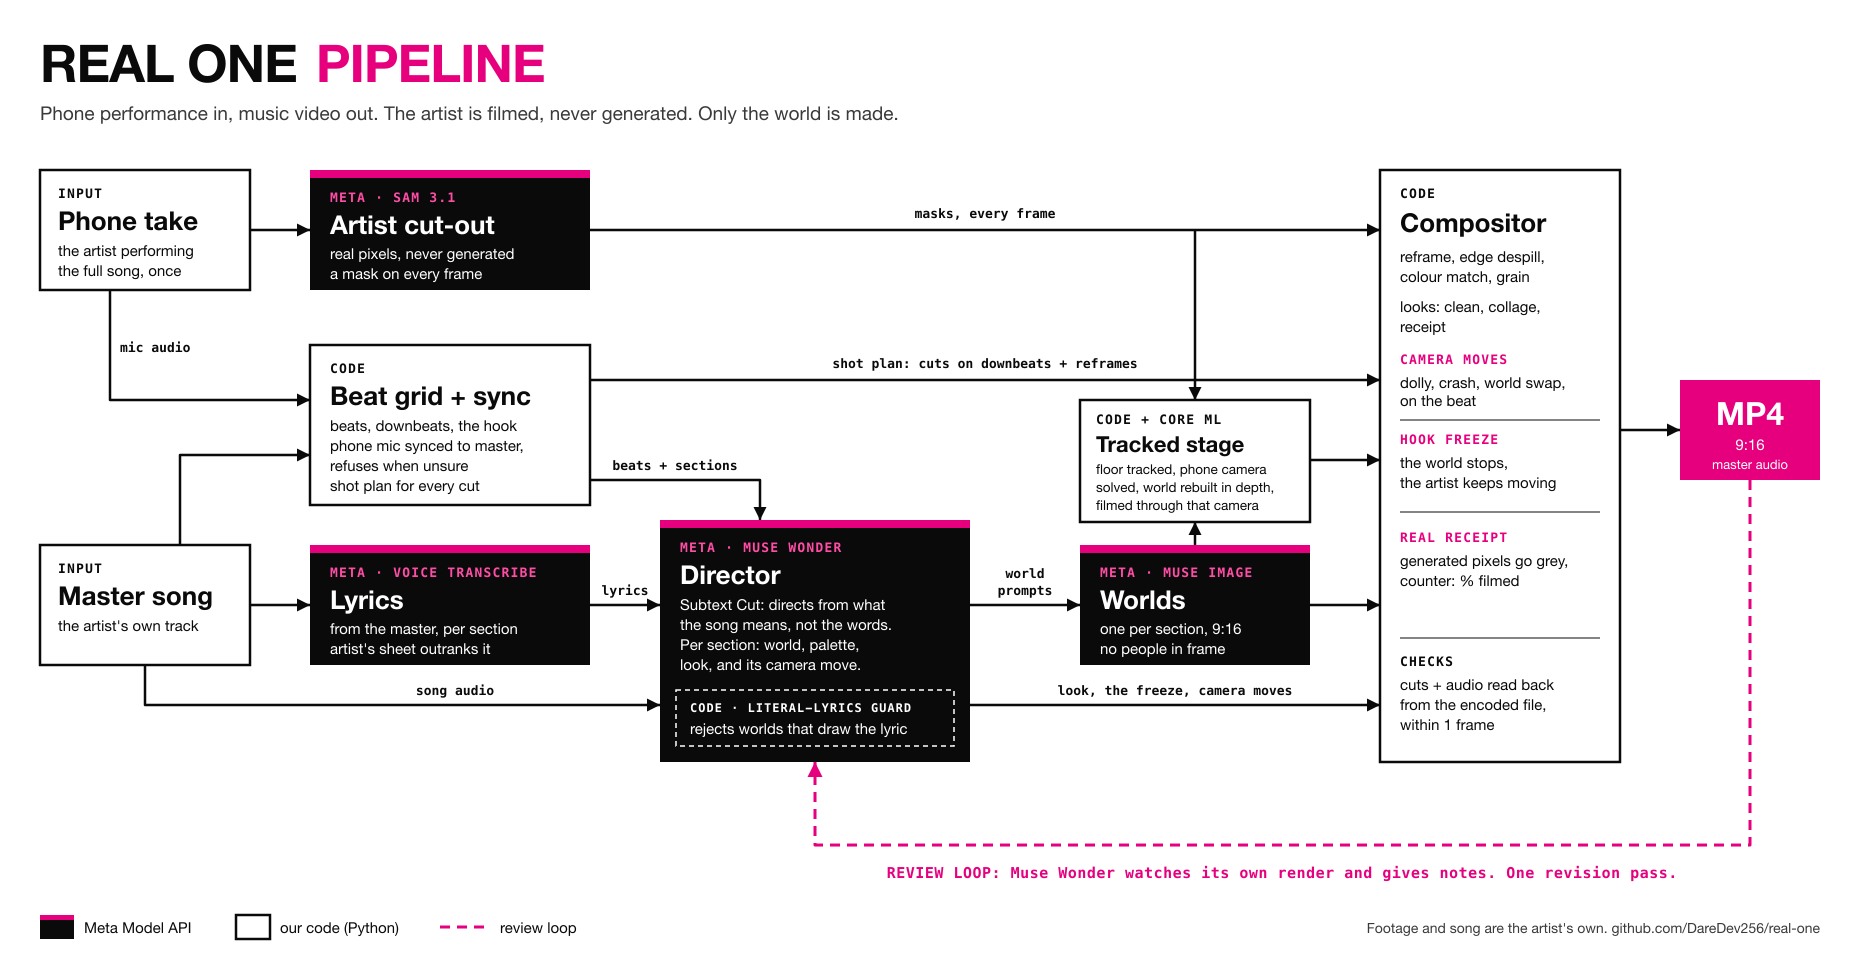
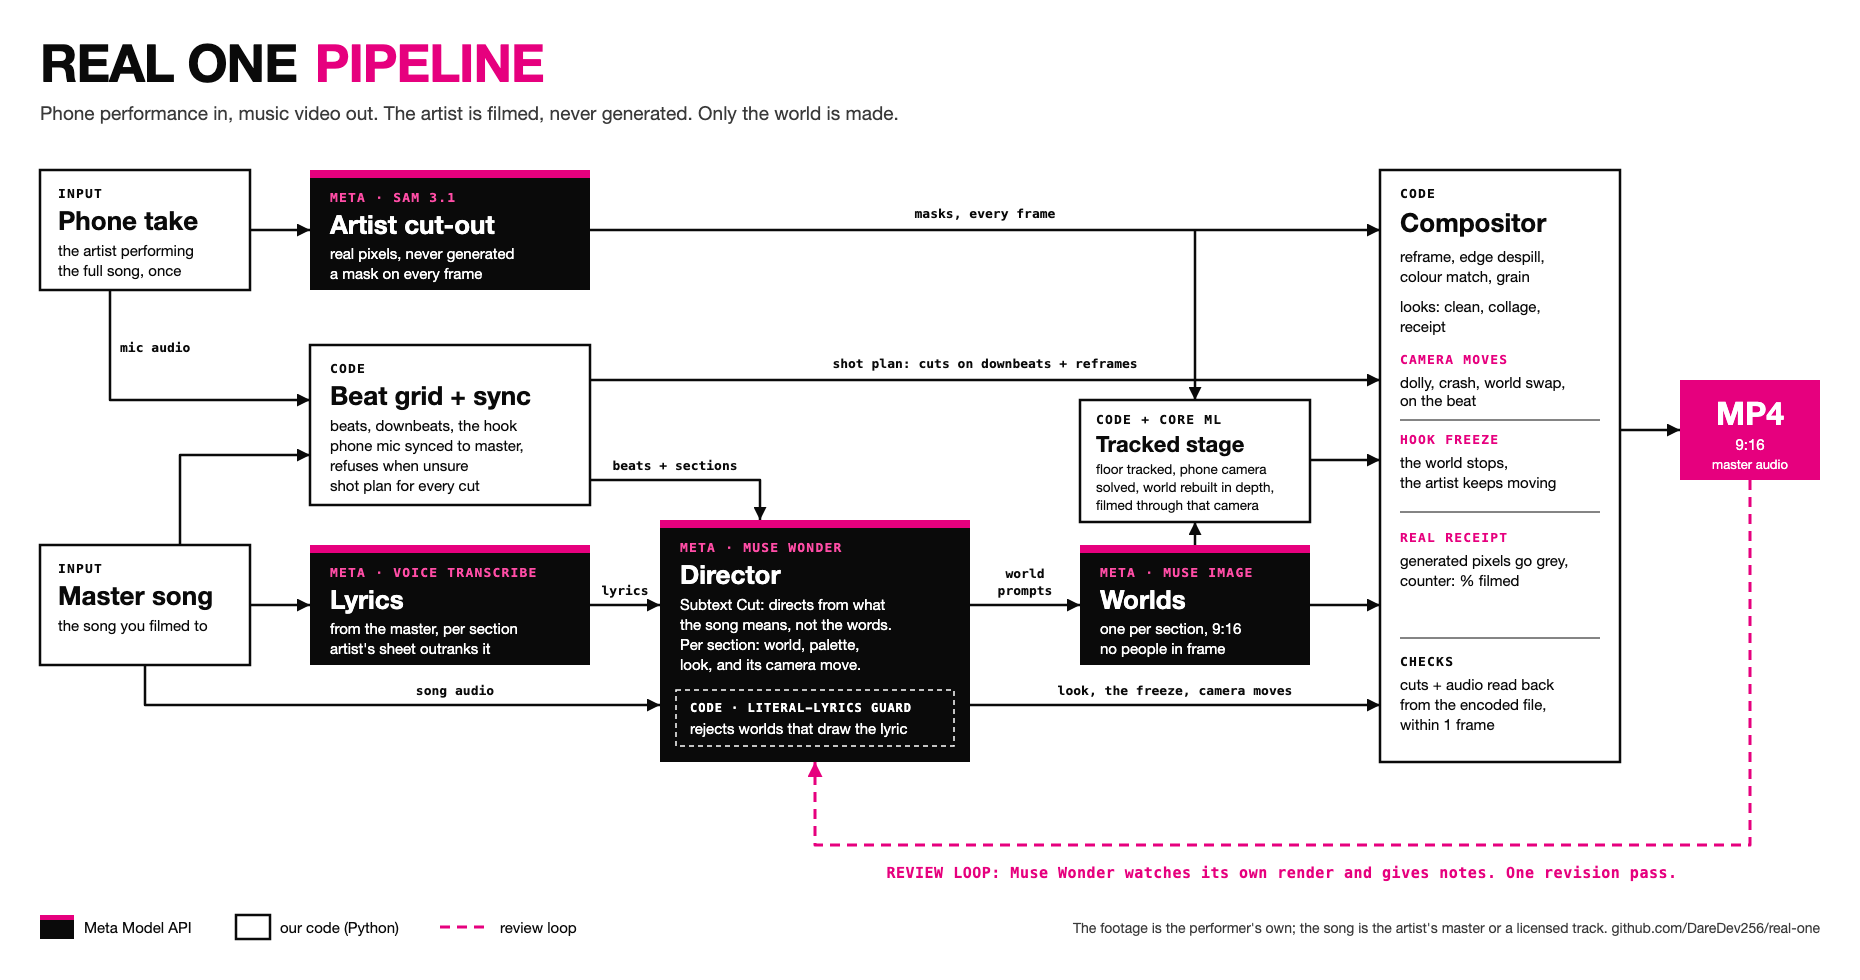
Watch page: a real render must say whose song it is
James has no release of his own; the demo will be him performing a CC BY
track. The page no longer assumes the song is the artist's own: a real
render refuses until --own-song or --song-credit 'TEXT' is given (and
refuses both); a licensed track puts its credit in the footer and the
credits statement. The pipeline diagram's own-song footer is corrected.

VERIFY PASS: secrets clean, page + readme tests green, 4 mutations red.

Claude-Session: https://claude.ai/code/session_01MajkfxCMkSNEc5EVSCGjQe

diff --git a/scripts/build_watch_page.py b/scripts/build_watch_page.py
@@ -50,6 +50,7 @@ PAGE_FILES = ("index.html", "watch.css", "watch.js", "vercel.json")
 BANNER_MARK = "<!-- TEST_BANNER -->"
 FOOT_MARK = "<!-- FOOT_SOURCE -->"
 FOOT_REAL = "FOOTAGE AND SONG ARE THE ARTIST'S OWN."
+FOOT_LICENSED = "THE FOOTAGE IS THE PERFORMER'S OWN. SONG: {credit}"
 FOOT_TEST = "TEST RENDER: THE FOOTAGE AND SONG HERE ARE STAND-INS."
 DIST_MARK = ".realone-watch"
 FINISHED_LOOKS = ("collage", "clean")
@@ -226,7 +227,21 @@ def _esc(s):
     return (str(s).replace("&", "&amp;").replace("<", "&lt;").replace(">", "&gt;").replace('"', "&quot;"))
 
 
-def build_credits(reasons, run, credits_file=None, repo=REPO, ran=None):
+def song_claim(reasons, own_song=False, song_credit=None):
+    """What the page may say about the song. A test render says stand-in. A real render must say which: the
+    artist's own master (--own-song) or a licensed track named with its credit line (--song-credit). The page
+    never assumes the song is the artist's own: the Nov 2 demo is a performance of a CC BY track."""
+    if reasons:
+        return None
+    if own_song and song_credit:
+        raise Refuse("--own-song and --song-credit contradict each other; pick one")
+    if not own_song and not song_credit:
+        raise Refuse("a real render must say whose song it is: --own-song (the artist's own master) or "
+                     "--song-credit 'TEXT' (a licensed track, with the credit its licence asks for)")
+    return {"own": True} if own_song else {"own": False, "credit": " ".join(str(song_credit).split())}
+
+
+def build_credits(reasons, run, credits_file=None, repo=REPO, ran=None, song=None):
     """credits.json for the page, generated from evidence (`ran`, from models_that_ran) unless a hand-written file
     is given. TEST when there are reasons, REAL otherwise. The total is what the Meta models' output on this page
     cost, summed from the same evidence (a cached render bills US$0.00 itself)."""
@@ -242,7 +257,9 @@ def build_credits(reasons, run, credits_file=None, repo=REPO, ran=None):
             stand_in = {k: "not used on this render" for k in stand_in}
         made = [m["name"] for m in META_MODELS if m["id"] in ran and ran[m["id"]].get("output", True)]
         silent = [m["name"] for m in META_MODELS if m["id"] in ran and not ran[m["id"]].get("output", True)]
-        rest = ("the footage and song are the artist's own." if not reasons
+        rest = ("the footage and song are the artist's own." if not reasons and (song or {}).get("own")
+                else f"the footage is the performer's own; the song is licensed: {song['credit']}"
+                if not reasons and song else "the footage is the performer's own." if not reasons
                 else "the footage and song are the stand-ins." if len(ran) == len(META_MODELS)
                 else "the rest were stood in for.")
         said = ((", ".join(made) + " made what you see here" if made else "No model's output is on this page")
@@ -462,7 +479,7 @@ def prepare_out(out):
 
 def build(tag, section, treatment_path=None, credits_path=None, out=None, look=None, out_dir=None, repo=REPO,
           web=WEB, encoder=encode, prober=probe, posterer=poster, log=print, stand_in=None, direct_log=None,
-          thumber=still_at):
+          thumber=still_at, own_song=False, song_credit=None):
     out_dir = Path(out_dir or repo / "out")
     out = Path(out or web / "dist")
     refuse_own(out, repo)
@@ -526,7 +543,8 @@ def build(tag, section, treatment_path=None, credits_path=None, out=None, look=N
     loop_ledger = ((load_json(direct_log, "director log", repo).get("spend") or {}).get("ledger", [])
                    if review is not None and review["mode"] == "keyed" else [])
     ran = models_that_ran(run, shots, treatment, out_dir, loop_ledger, lyrics)
-    credits = build_credits(reasons, run, credits_path, repo, ran=ran)
+    song = song_claim(reasons, own_song, song_credit)
+    credits = build_credits(reasons, run, credits_path, repo, ran=ran, song=song)
 
     template = (web / "index.html").read_text()
     if BANNER_MARK not in template:
@@ -585,7 +603,9 @@ def build(tag, section, treatment_path=None, credits_path=None, out=None, look=N
     if FOOT_MARK not in page:
         raise Refuse(f"web/index.html has lost its {FOOT_MARK} marker; the footer would claim the footage is the "
                      f"artist's own on a test render")
-    page = page.replace(FOOT_MARK, FOOT_TEST if reasons else FOOT_REAL)
+    foot = (FOOT_TEST if reasons else FOOT_REAL if song["own"]
+            else FOOT_LICENSED.format(credit=_esc(song["credit"].upper())))
+    page = page.replace(FOOT_MARK, foot)
     (out / "index.html").write_text(page)
     for f in PAGE_FILES[1:]:
         shutil.copy2(web / f, out / f)
@@ -607,10 +627,12 @@ def main(argv=None):
                                       "9146 (free license)'; puts it on the TEST banner")
     p.add_argument("--direct-log", help="out/director_<tag>_log.json from `direct`: shows Wonder's notes on its own "
                                         "cut, the revision, and the world before and after")
+    p.add_argument("--own-song", action="store_true", help="a real render: the song is the artist's own master")
+    p.add_argument("--song-credit", help="a real render of a licensed track: the credit line its licence asks for")
     a = p.parse_args(argv)
     try:
         build(a.tag, a.section, a.treatment, a.credits, a.out, a.look, stand_in=a.stand_in,
-              direct_log=a.direct_log)
+              direct_log=a.direct_log, own_song=a.own_song, song_credit=a.song_credit)
     except Refuse as e:
         print(f"build_watch_page: REFUSED: {e}", file=sys.stderr)
         return 2

diff --git a/tests/test_build_watch_page.py b/tests/test_build_watch_page.py
@@ -243,7 +243,7 @@ def test_local_masks_alone_put_the_banner_up(repo):
 
 def test_real_render_has_no_banner(repo):
     make_render(repo, stem="t_hook", local=False, plates=False)
-    out, m = build(repo, credits_path=real_credits(repo))
+    out, m = build(repo, credits_path=real_credits(repo), own_song=True)
     html = (out / "index.html").read_text()
     assert 'id="test-banner"' not in html and 'data-test="0"' in html and bw.BANNER_MARK not in html
     assert m["test"] is False
@@ -253,7 +253,7 @@ def test_a_real_render_gets_real_credits_from_evidence(repo):
     """Monday's real take must not wait on a hand-written credits file: the credits come from the same evidence
     as a test render's, say REAL, credit only what ran, and never call a stand-in a stand-in."""
     make_render(repo, stem="t_hook", local=False, plates=False)
-    out, m = build(repo)
+    out, m = build(repo, own_song=True)
     c = json.loads((out / "data" / "credits.json").read_text())
     html = (out / "index.html").read_text()
     assert c["status"] == "REAL" and m["test"] is False and 'id="test-banner"' not in html
@@ -453,3 +453,19 @@ def test_the_footer_never_calls_stand_in_footage_the_artists_own(repo):
     (repo / "web" / "index.html").write_text((repo / "web" / "index.html").read_text().replace(bw.FOOT_MARK, "x"))
     with pytest.raises(bw.Refuse, match="FOOT_SOURCE"):
         build(repo)
+
+
+def test_a_real_render_must_say_whose_song_it_is(repo):
+    """The Nov 2 demo is James performing a CC BY track, so a real page may not assume the song is the artist's
+    own: it refuses until told, refuses a contradiction, and a licensed track puts its credit on the page."""
+    make_render(repo, stem="t_hook", local=False, plates=False)
+    with pytest.raises(Refuse, match="must say whose song it is"):
+        build(repo)
+    with pytest.raises(Refuse, match="contradict"):
+        build(repo, own_song=True, song_credit="x")
+    credit = '"What I Gotta Do" by J.Lang, CC BY 2.5'
+    out, _ = build(repo, song_credit=credit)
+    html = (out / "index.html").read_text()
+    c = json.loads((out / "data" / "credits.json").read_text())
+    assert bw.FOOT_REAL not in html and "THE FOOTAGE IS THE PERFORMER'S OWN. SONG: &quot;WHAT I GOTTA DO" in html
+    assert c["statement"].endswith("the song is licensed: " + credit) and "artist's own" not in c["statement"]

diff --git a/CHANGELOG.md b/CHANGELOG.md
@@ -63,6 +63,14 @@
   architecture, the vision projector and the chat template (read in its source, Nov 1). 2 tests.
 - **README:** the Muse Spark Open row said it writes treatments; it never ran with a key. It now says "wired, not
   yet run".
+- **The demo's song is a licensed track (Nov 2).** James has no release of his own, so the demo is him performing a
+  Creative Commons BY track from ccMixter (three human-made candidates on the shoot card; Pixabay's vocal rap was
+  4 of 6 labelled "AI generated", which a pitch of "the artist is never generated" cannot use). The watch page no
+  longer assumes a real render's song is the artist's own: it refuses until told `--own-song` or
+  `--song-credit 'TEXT'`, refuses both at once, and a licensed track puts its credit in the footer and the credits
+  statement ("the footage is the performer's own; the song is licensed: ..."). The pipeline diagram's footer said
+  "Footage and song are the artist's own"; it now says the song is the artist's master or a licensed track. 1 test;
+  4 mutations, all red.
 - **Monday's chain, walked before the take exists.** Every flag in the edit kit checked against `--help`. Two real
   gaps found and closed: `direct` without `--treatment` would have re-planned (a different treatment from the
   full render's), so the kit now passes it; and the watch page refused a real render without a hand-written
